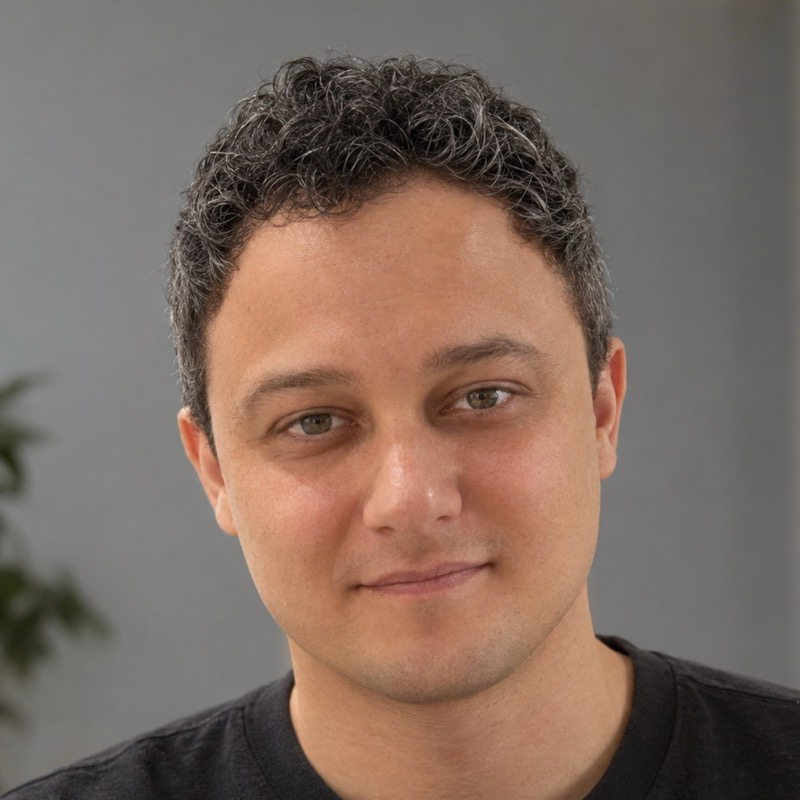
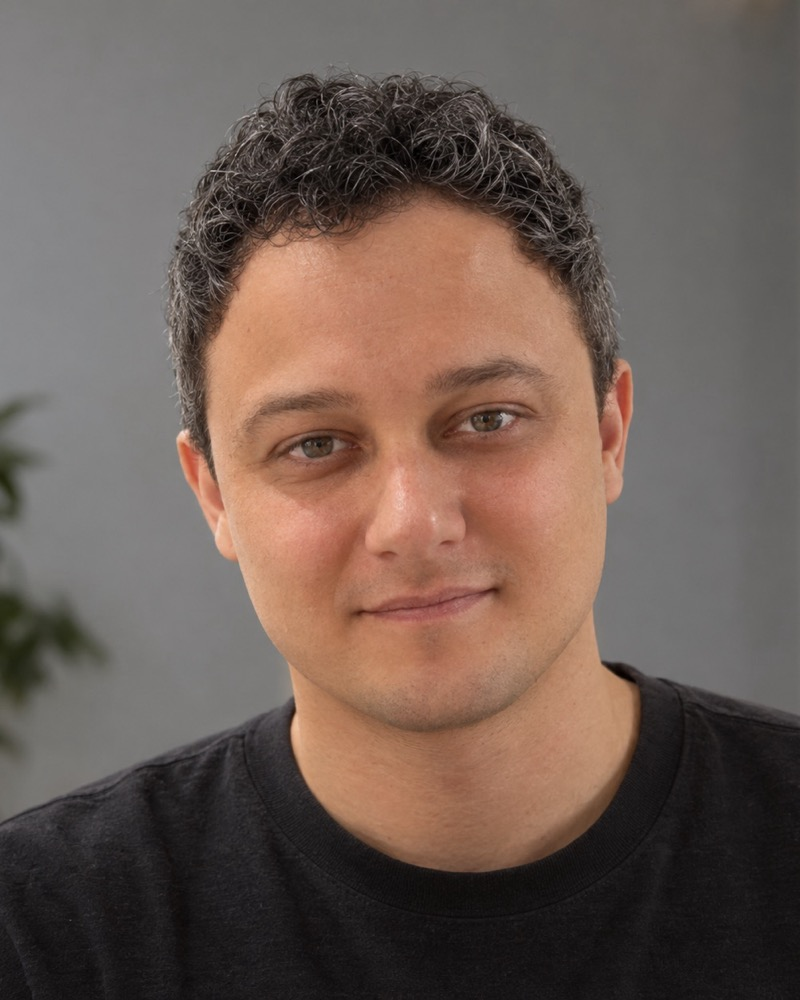
style(about): fit the portrait into the page grid and palette
Grayscale with extra contrast so it sits in the black and acid palette,
colour returns on hover. Cropped to 4:5 and placed on the 12-column grid:
on desktop it spans the headline height, on tablet the text runs beside it.

diff --git a/src/views/about/ui/about-page.tsx b/src/views/about/ui/about-page.tsx
@@ -11,25 +11,28 @@ export function AboutPage() {
   return (
     <>
       <section className="border-border border-b-2 pt-28 pb-12 md:pt-36 md:pb-16">
-        <Container className="grid gap-8 md:grid-cols-[minmax(0,1fr)_auto] md:gap-12">
-          <div>
-            <SectionLabel>{t("title")}</SectionLabel>
-            <h1 data-page-title className="display text-h1 mt-6 max-w-4xl text-balance">
+        <Container>
+          <SectionLabel>{t("title")}</SectionLabel>
+          <div className="grid-page mt-6 gap-y-8">
+            <h1
+              data-page-title
+              className="display text-h1 col-span-4 text-balance md:col-span-8 lg:col-span-8"
+            >
               {t("headline")}
             </h1>
-            <div className="mt-8 max-w-prose space-y-4 text-lg leading-relaxed">
+            <Image
+              src={portrait}
+              alt={t("photoAlt")}
+              placeholder="blur"
+              sizes="(min-width: 1024px) 25vw, (min-width: 768px) 37vw, 50vw"
+              className="border-border col-span-2 border-2 contrast-125 grayscale transition-[filter] duration-300 hover:grayscale-0 md:col-span-3 lg:col-span-3 lg:col-start-10 lg:row-span-2"
+            />
+            <div className="col-span-4 max-w-prose space-y-4 text-lg leading-relaxed md:col-span-5 lg:col-span-8">
               {paragraphs.map((paragraph) => (
                 <p key={paragraph}>{paragraph}</p>
               ))}
             </div>
           </div>
-          <Image
-            src={portrait}
-            alt={t("photoAlt")}
-            placeholder="blur"
-            sizes="(min-width: 1024px) 320px, (min-width: 768px) 240px, 160px"
-            className="border-border w-40 border-2 md:mt-12 md:w-60 lg:w-80"
-          />
         </Container>
       </section>
 
